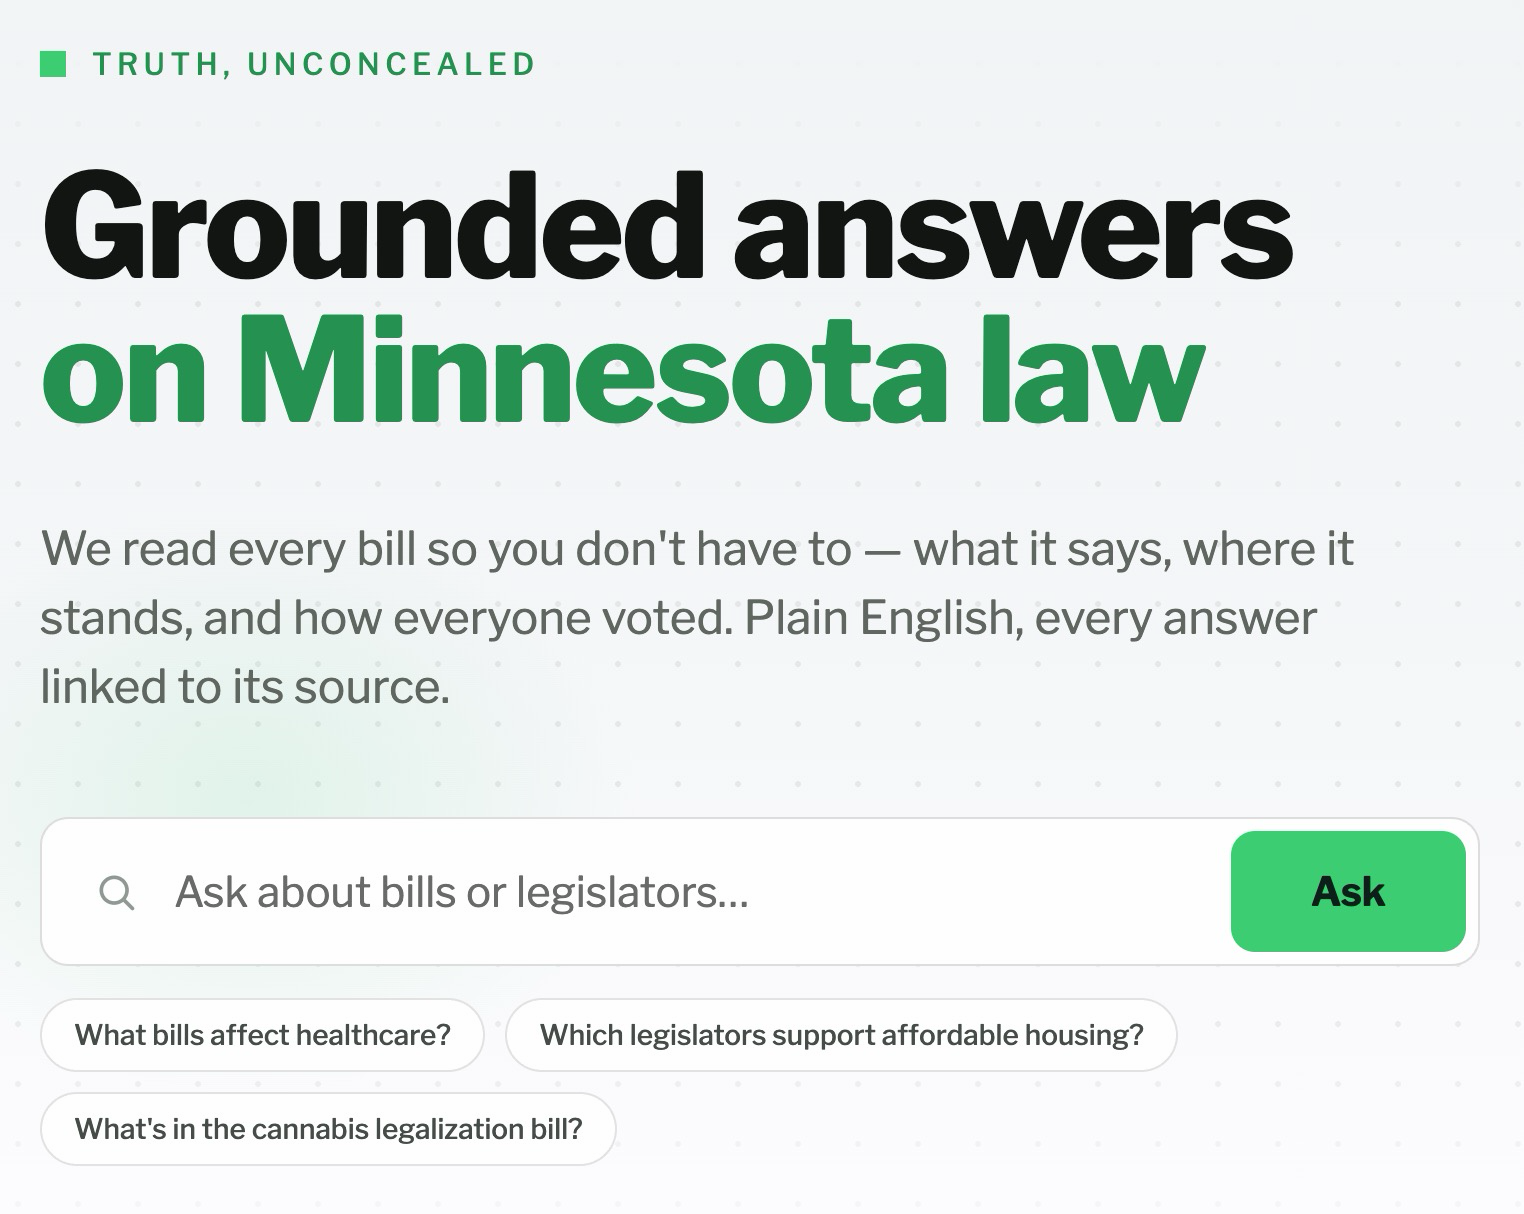
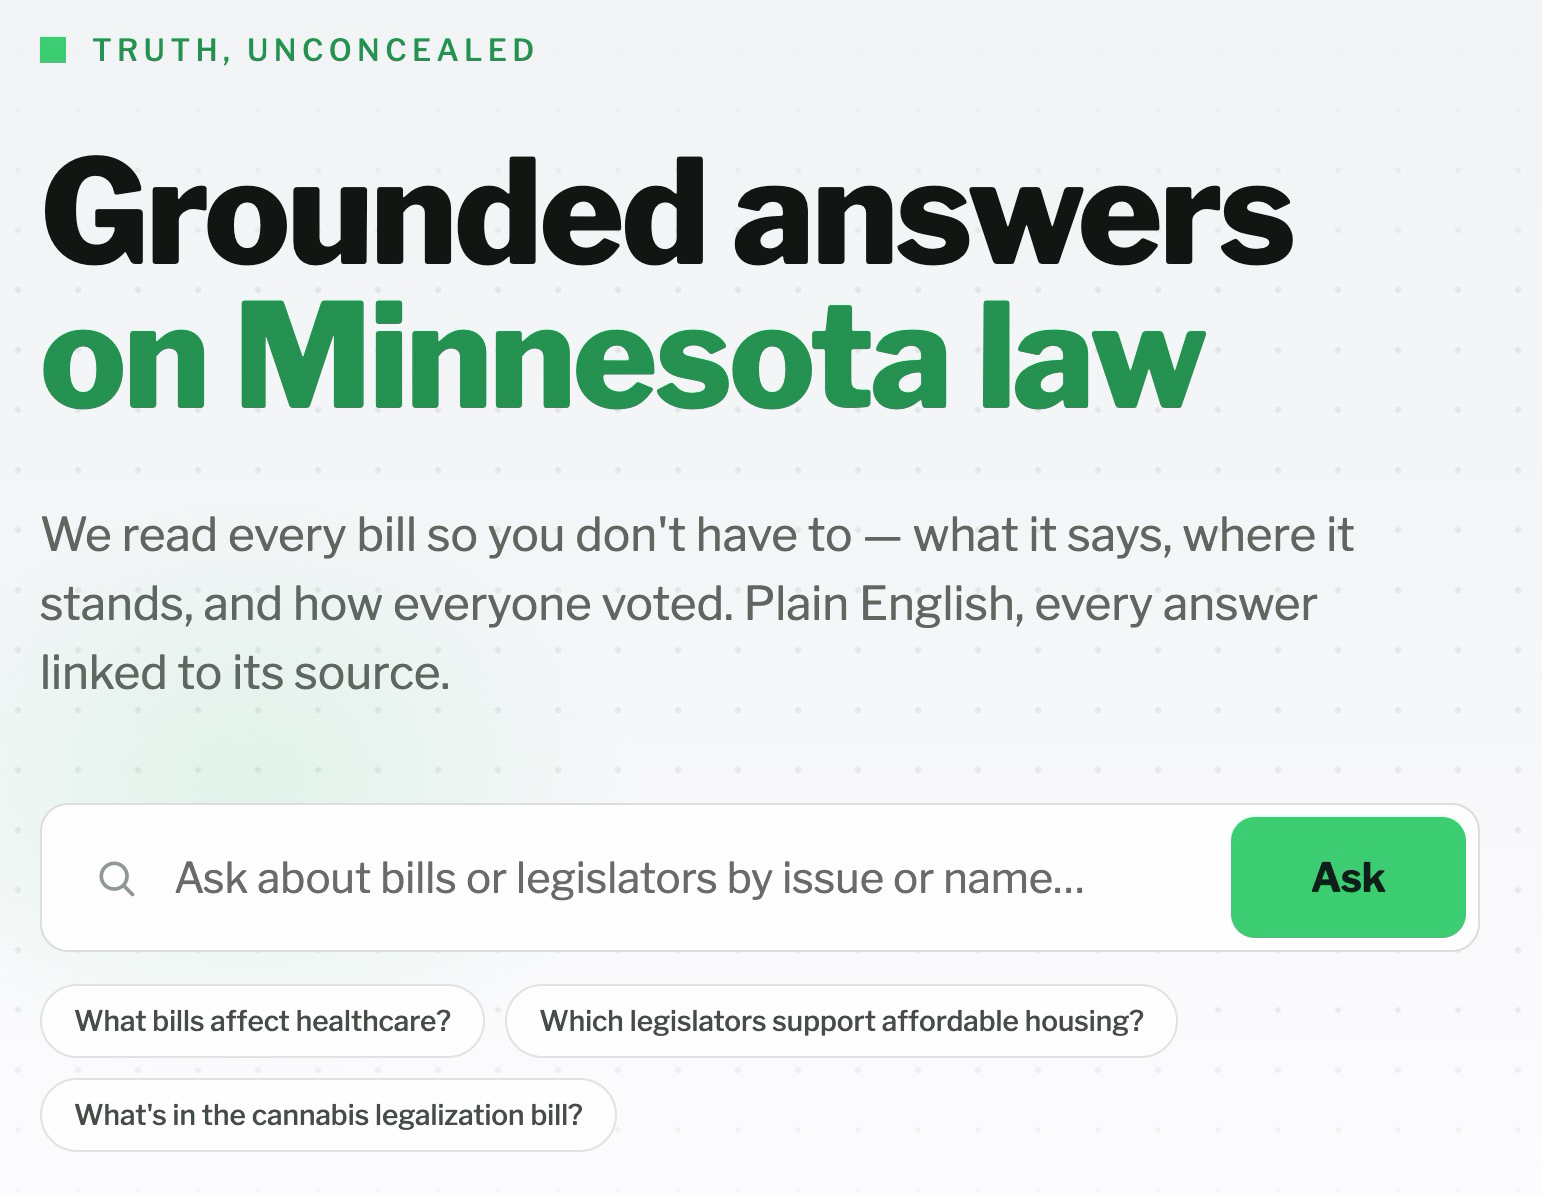
Refresh hero screenshot to match the new placeholder copy
Replaces docs/assets/grounded-ask-hero.png with the current mock (Ask box
now reads "…by issue or name…") and drops the now-stale "image predates the
placeholder update" caption note. Screenshot rides with the copy change so
the spec's visual and text never diverge.

diff --git a/docs/grounded-ask-spec.md b/docs/grounded-ask-spec.md
@@ -6,7 +6,7 @@ Related surfaces: signed-out home (hero), chat
 
 ![Signed-out hero with Ask box and the v1 sample question chips](assets/grounded-ask-hero.png)
 
-*The mock reflects the **v1** surface: the three chips map 1:1 to the v1 answer paths (bill text · topic → bills · topic → legislators). The vote chip is **v1.1** — see Phasing in §2. The image predates the placeholder update — current copy is "Ask about bills or legislators by issue or name…" (§2).*
+*The mock reflects the **v1** surface: the three chips map 1:1 to the v1 answer paths (bill text · topic → bills · topic → legislators), and the Ask box shows the v1 placeholder copy (§2). The vote chip is **v1.1** — see Phasing in §2.*
 
 ## 1. Goal and the promise this build protects
 